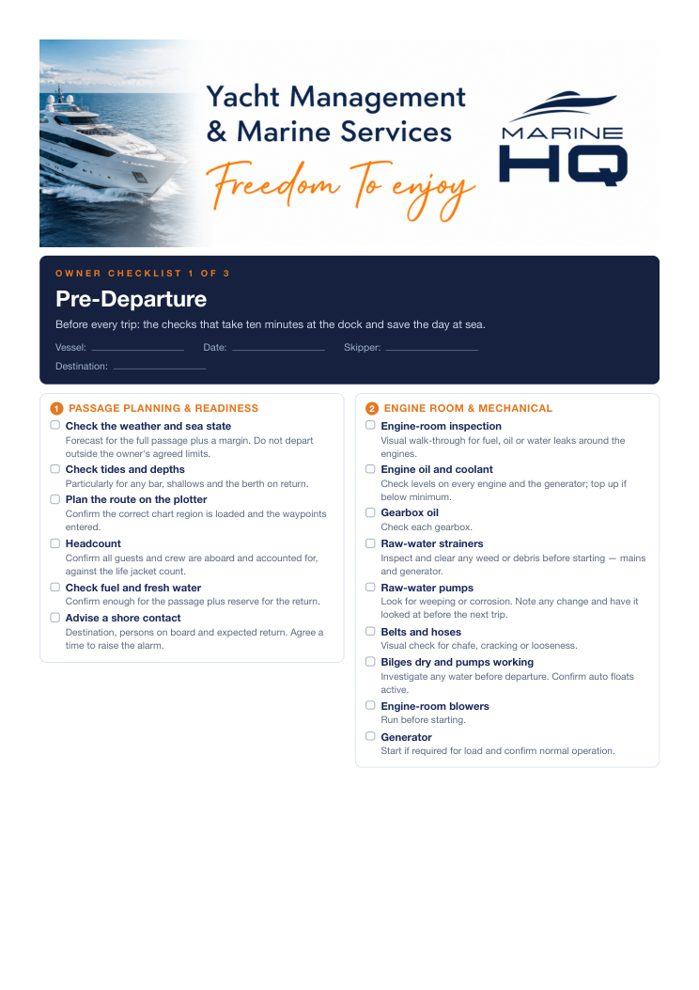
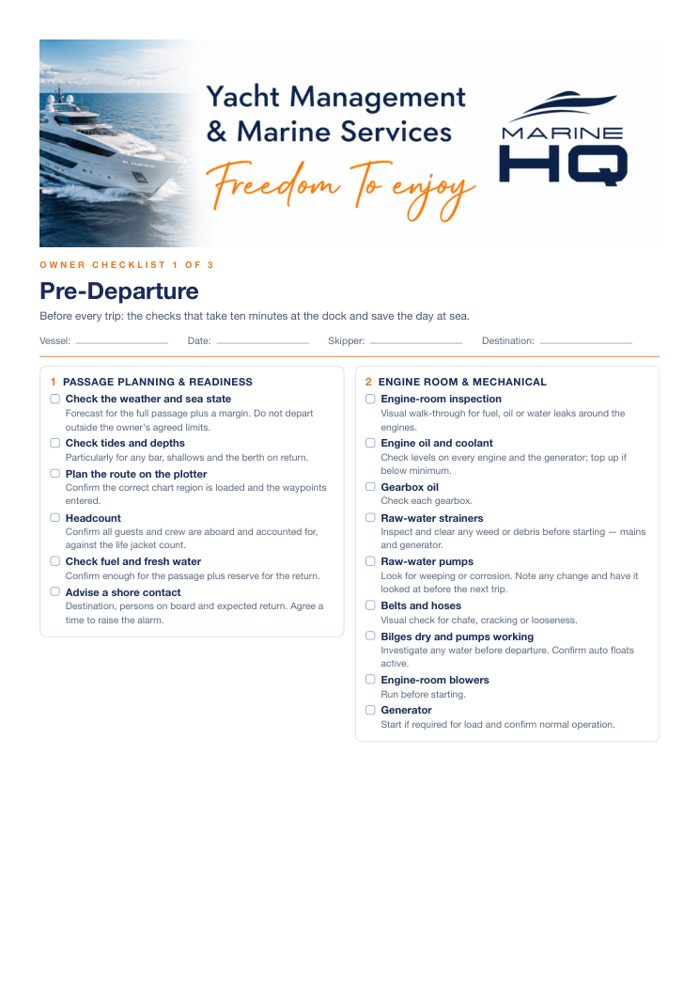
Quieter branding: no navy or orange blocks, colour as notes only
Light hero with a clean photo band, outlined buttons, pale table headers,
light end panels, white links page, lighter product thumbnails.

Changed region(s): [[0.03, 0.2424, 0.9614, 0.7879], [0.9013, 0.5152, 0.9313, 0.5758]]

diff --git a/links/index.html b/links/index.html
@@ -2,5 +2,5 @@
 <meta charset="utf-8"><meta name="viewport" content="width=device-width,initial-scale=1"><title>Marine HQ — links</title><meta name="description" content="Marine HQ: yacht management on the Gold Coast. Guides, the Yacht Owner&rsquo;s Kit, and how to reach us."><link rel="canonical" href="https://guides.marinehq.com.au/links/"><link rel="icon" href="/assets/white_favicon-64.png"><link href="https://fonts.googleapis.com/css2?family=Bodoni+Moda:opsz,wght@6..96,500&family=Inter:wght@400;600&family=Montserrat:wght@700&display=swap" rel="stylesheet"><link rel="stylesheet" href="/assets/style.css?v=20261004">
 <script async src="https://www.googletagmanager.com/gtag/js?id=G-657FQN68L7"></script>
 <script>window.dataLayer=window.dataLayer||[];function gtag(){dataLayer.push(arguments);}gtag('js',new Date());gtag('config','G-657FQN68L7');</script>
-</head><body class="lkpage"><main class="lkwrap"><img class="lklogo" src="/assets/logo_orange.png" alt="Marine HQ"><h1>Marine HQ</h1><p>Yacht management and maintenance. Gold Coast, Sydney, Whitsundays.</p><a class="lk" href="/"><b>Read the guides</b><span>Costs, marinas, maintenance, passages</span></a><a class="lk" href="/owners-kit/"><b>The Yacht Owner&rsquo;s Kit</b><span>Checklists and schedules from $7</span></a><a class="lk" href="/guides/cost-of-owning-a-yacht-gold-coast/"><b>What does it cost to own a yacht?</b><span>The Gold Coast numbers</span></a><a class="lk" href="/guides/do-you-need-full-time-crew/"><b>Do you need full-time crew?</b><span>Driving her yourself, day crew, captains</span></a><a class="lk" href="/guides/myyacht-owner-app-guide/"><b>MyYacht, the owner app</b><span>Screen by screen</span></a><a class="lk" href="https://www.marinehq.com.au/"><b>Marine HQ website</b><span>Yacht management and maintenance</span></a><a class="lk" href="https://wa.me/61439748387"><b>WhatsApp us</b><span>Usually within the hour</span></a><a class="lk" href="tel:+61439748387"><b>Call 0439 748 387</b></a><p class="lkfoot">Freedom to enjoy.</p></main>
+</head><body class="lkpage"><main class="lkwrap"><img class="lklogo" src="/assets/logo_navy.png" alt="Marine HQ"><h1>Marine HQ</h1><p>Yacht management and maintenance. Gold Coast, Sydney, Whitsundays.</p><a class="lk" href="/"><b>Read the guides</b><span>Costs, marinas, maintenance, passages</span></a><a class="lk" href="/owners-kit/"><b>The Yacht Owner&rsquo;s Kit</b><span>Checklists and schedules from $7</span></a><a class="lk" href="/guides/cost-of-owning-a-yacht-gold-coast/"><b>What does it cost to own a yacht?</b><span>The Gold Coast numbers</span></a><a class="lk" href="/guides/do-you-need-full-time-crew/"><b>Do you need full-time crew?</b><span>Driving her yourself, day crew, captains</span></a><a class="lk" href="/guides/myyacht-owner-app-guide/"><b>MyYacht, the owner app</b><span>Screen by screen</span></a><a class="lk" href="https://www.marinehq.com.au/"><b>Marine HQ website</b><span>Yacht management and maintenance</span></a><a class="lk" href="https://wa.me/61439748387"><b>WhatsApp us</b><span>Usually within the hour</span></a><a class="lk" href="tel:+61439748387"><b>Call 0439 748 387</b></a><p class="lkfoot">Freedom to enjoy.</p></main>
 </body></html>

diff --git a/assets/style.css b/assets/style.css
@@ -329,3 +329,39 @@ html,body{max-width:100%;overflow-x:clip}
 .lk b{display:block;font-weight:600;font-size:1.02rem}
 .lk span{display:block;font-size:.82rem;opacity:.75;margin-top:2px}
 .lkfoot{font-family:var(--serif);font-style:italic;color:#fb7414!important;margin-top:26px!important}
+
+/* ── Quieter branding (4 Oct 2026, Trish): no dark-blue blocks, no orange blocks. Navy and orange are
+      for type, hairlines and small notes only. The top bar stays navy to match marinehq.com.au. ── */
+.btn,.prod-act .btn,.cta.end .btn,.foot-cta .btn,.shop-done .btn,.side-cta .btn{background:#fff;color:var(--navy);border:1.5px solid var(--navy)}
+.btn:hover,.prod-act .btn:hover,.cta.end .btn:hover,.foot-cta .btn:hover,.shop-done .btn:hover,.side-cta .btn:hover{background:#fff;color:var(--orange);border-color:var(--orange)}
+.btn.ghost,.cta.end .btn.ghost,.foot-cta .btn.ghost,.shop-done .btn.ghost{background:transparent;color:var(--navy);border:1px solid var(--line-2)}
+.btn.ghost:hover,.cta.end .btn.ghost:hover,.foot-cta .btn.ghost:hover,.shop-done .btn.ghost:hover{color:var(--orange);border-color:var(--orange)}
+.hero.small{background:var(--wash);color:var(--navy);border-bottom:1px solid var(--line);padding:46px 0 34px}
+.hero.small h1{color:var(--navy)}
+.hero.small .stand{color:var(--ink-2)}
+.hero.small .crumbs{color:var(--mute);text-shadow:none}
+.hero.small .crumbs a{color:var(--navy)}
+.cta.end,.foot-cta,.shop-done{background:var(--wash);color:var(--ink);border:1px solid var(--line);border-top:2px solid var(--orange)}
+.cta.end h2,.foot-cta h2,.shop-done h2{color:var(--navy)}
+.cta.end p,.foot-cta p,.shop-done p{color:var(--ink-2)}
+.shopcard.is-kit{border-top-color:var(--navy);background:#fff}
+.prod{background:#fff}
+.lkpage{background:#fff;color:var(--ink)}
+.lkwrap h1{color:var(--navy)}
+.lkwrap h1:after{content:"";display:block;width:44px;height:2px;background:var(--orange);margin:14px auto 0}
+.lkwrap p{color:var(--ink-2)}
+.lk{background:#fff;color:var(--navy);border:1px solid var(--line-2);border-radius:6px}
+.lk:hover{background:#fff;color:var(--orange);border-color:var(--orange)}
+.lkfoot{color:var(--orange)!important}
+.body th{background:#eef2f8;color:var(--navy);border-bottom:2px solid var(--orange)}
+/* hero: light ground, navy type, the photo shown clean underneath (no navy wash over it) */
+.hero{background:var(--wash);color:var(--navy);padding:54px 0 0}
+.hero.home{padding:64px 0 0}
+.hero h1{color:var(--navy)}
+.hero .stand{color:var(--ink-2)}
+.hero .eyebrow,.hero .crumbs,.hero .meta{text-shadow:none}
+.hero .meta,.hero .crumbs{color:var(--mute)}
+.hero .crumbs a{color:var(--navy)}
+.hero:after{content:"";display:block;height:clamp(170px,30vw,400px);margin-top:34px;background:var(--photo) center/cover no-repeat}
+.hero.small{padding:46px 0 34px}
+.hero.small:after{display:none}

diff --git a/assets/whatsapp-widget.js b/assets/whatsapp-widget.js
@@ -7,9 +7,9 @@
   +'#mhqwa .b{width:60px;height:60px;border-radius:50%;background:#25D366;border:0;cursor:pointer;box-shadow:0 8px 24px rgba(0,0,0,.25);display:flex;align-items:center;justify-content:center;position:relative}'
   +'#mhqwa .b svg{width:32px;height:32px;fill:#fff}#mhqwa .b i{position:absolute;top:2px;right:2px;width:12px;height:12px;border-radius:50%;background:#e87722;border:2px solid #fff}'
   +'#mhqwa .p{position:absolute;right:0;bottom:74px;width:min(340px,calc(100vw - 36px));background:#fff;border-radius:14px;box-shadow:0 16px 48px rgba(22,34,63,.28);overflow:hidden;display:none}'
-  +'#mhqwa.open .p{display:block}#mhqwa .h{background:#16223f;color:#fff;padding:14px 16px;display:flex;align-items:center;gap:12px}'
-  +'#mhqwa .h b{display:block;font-size:15px}#mhqwa .h span{font-size:12px;color:#c9d3e6}#mhqwa .h .x{margin-left:auto;background:none;border:0;color:#fff;font-size:22px;cursor:pointer;line-height:1}'
-  +'#mhqwa .lg{width:36px;height:36px;border-radius:50%;background:#fff;display:flex;align-items:center;justify-content:center;color:#16223f;font-weight:800;font-size:11px;letter-spacing:.5px}'
+  +'#mhqwa.open .p{display:block}#mhqwa .h{background:#fff;color:#1a2b5c;border-bottom:2px solid #e87722;padding:14px 16px;display:flex;align-items:center;gap:12px}'
+  +'#mhqwa .h b{display:block;font-size:15px}#mhqwa .h span{font-size:12px;color:#5d6a82}#mhqwa .h .x{margin-left:auto;background:none;border:0;color:#1a2b5c;font-size:22px;cursor:pointer;line-height:1}'
+  +'#mhqwa .lg{width:36px;height:36px;border-radius:50%;background:#fff;border:1.5px solid #1a2b5c;display:flex;align-items:center;justify-content:center;color:#16223f;font-weight:800;font-size:11px;letter-spacing:.5px}'
   +'#mhqwa .m{background:#eef1f8;padding:16px}#mhqwa .g{background:#fff;border-radius:10px;padding:12px 14px;font-size:14px;color:#1f2740;line-height:1.5;max-width:88%;box-shadow:0 1px 2px rgba(0,0,0,.06)}'
   +'#mhqwa .f{padding:12px}#mhqwa textarea{width:100%;box-sizing:border-box;border:1px solid #cfd6e2;border-radius:10px;padding:10px 12px;font:inherit;font-size:14px;resize:none;height:64px}'
   +'#mhqwa .s{display:block;width:100%;margin-top:10px;background:#25D366;color:#fff;border:0;border-radius:10px;padding:13px;font-weight:700;font-size:15px;cursor:pointer}'

diff --git a/guides/detailing-and-ceramic-coating-gold-coast/index.html b/guides/detailing-and-ceramic-coating-gold-coast/index.html
@@ -29,7 +29,7 @@
 </header>
 <nav class="sub" aria-label="Guide sections"><div class="wrap sub-bar"><a class="sub-home" href="/">All guides</a><a href="/costs/">Costs</a><a href="/maintenance/">Maintenance</a><a href="/marinas/">Marinas</a><a href="/buying/">Buying & selling</a><a href="/cruising/">Cruising & passages</a><a href="/ownership/">Ownership</a><a class="sub-kit" href="/owners-kit/">Owner&rsquo;s Kit</a></div></nav>
 
-<section class="hero" style="background-image:linear-gradient(180deg,rgba(22,34,63,.50) 0%,rgba(22,34,63,.62) 40%,rgba(22,34,63,.94) 100%),url('/assets/photos/teak-deck.jpg')">
+<section class="hero" style="--photo:url('/assets/photos/teak-deck.jpg')">
   <div class="wrap">
     <div class="crumbs"><a href="/">Guides</a> <span>&rsaquo;</span> <a href="/maintenance/">Maintenance</a></div>
     <h1>Detailing and ceramic coating for a motor yacht on the Gold Coast: what it costs, how long it lasts, and what&#x27;s in the job</h1>

diff --git a/guides/sanctuary-cove-boat-show-guide/index.html b/guides/sanctuary-cove-boat-show-guide/index.html
@@ -29,7 +29,7 @@
 </header>
 <nav class="sub" aria-label="Guide sections"><div class="wrap sub-bar"><a class="sub-home" href="/">All guides</a><a href="/costs/">Costs</a><a href="/maintenance/">Maintenance</a><a href="/marinas/">Marinas</a><a href="/buying/">Buying & selling</a><a href="/cruising/">Cruising & passages</a><a href="/ownership/">Ownership</a><a class="sub-kit" href="/owners-kit/">Owner&rsquo;s Kit</a></div></nav>
 
-<section class="hero" style="background-image:linear-gradient(180deg,rgba(22,34,63,.50) 0%,rgba(22,34,63,.62) 40%,rgba(22,34,63,.94) 100%),url('/assets/photos/bow-marina.jpg')">
+<section class="hero" style="--photo:url('/assets/photos/bow-marina.jpg')">
   <div class="wrap">
     <div class="crumbs"><a href="/">Guides</a> <span>&rsaquo;</span> <a href="/buying/">Buying &amp; selling</a></div>
     <h1>Sanctuary Cove International Boat Show 2027: dates, what&#x27;s there, and how to get the most out of it</h1>

diff --git a/guides/do-you-need-full-time-crew/index.html b/guides/do-you-need-full-time-crew/index.html
@@ -29,7 +29,7 @@
 </header>
 <nav class="sub" aria-label="Guide sections"><div class="wrap sub-bar"><a class="sub-home" href="/">All guides</a><a href="/costs/">Costs</a><a href="/maintenance/">Maintenance</a><a href="/marinas/">Marinas</a><a href="/buying/">Buying & selling</a><a href="/cruising/">Cruising & passages</a><a href="/ownership/">Ownership</a><a class="sub-kit" href="/owners-kit/">Owner&rsquo;s Kit</a></div></nav>
 
-<section class="hero" style="background-image:linear-gradient(180deg,rgba(22,34,63,.50) 0%,rgba(22,34,63,.62) 40%,rgba(22,34,63,.94) 100%),url('/assets/photos/bow-marina.jpg')">
+<section class="hero" style="--photo:url('/assets/photos/bow-marina.jpg')">
   <div class="wrap">
     <div class="crumbs"><a href="/">Guides</a> <span>&rsaquo;</span> <a href="/ownership/">Ownership</a></div>
     <h1>Do you need full-time crew? Driving her yourself, day crew, captains, and what happens when your captain leaves</h1>

diff --git a/guides/yacht-sops-standard-operating-procedures/index.html b/guides/yacht-sops-standard-operating-procedures/index.html
@@ -29,7 +29,7 @@
 </header>
 <nav class="sub" aria-label="Guide sections"><div class="wrap sub-bar"><a class="sub-home" href="/">All guides</a><a href="/costs/">Costs</a><a href="/maintenance/">Maintenance</a><a href="/marinas/">Marinas</a><a href="/buying/">Buying & selling</a><a href="/cruising/">Cruising & passages</a><a href="/ownership/">Ownership</a><a class="sub-kit" href="/owners-kit/">Owner&rsquo;s Kit</a></div></nav>
 
-<section class="hero" style="background-image:linear-gradient(180deg,rgba(22,34,63,.50) 0%,rgba(22,34,63,.62) 40%,rgba(22,34,63,.94) 100%),url('/assets/photos/at-anchor.jpg')">
+<section class="hero" style="--photo:url('/assets/photos/at-anchor.jpg')">
   <div class="wrap">
     <div class="crumbs"><a href="/">Guides</a> <span>&rsaquo;</span> <a href="/ownership/">Ownership</a></div>
     <h1>Yacht SOPs: what standard operating procedures are, why they pay for themselves, and what a good set includes</h1>

diff --git a/guides/annual-haul-out-checklist/index.html b/guides/annual-haul-out-checklist/index.html
@@ -29,7 +29,7 @@
 </header>
 <nav class="sub" aria-label="Guide sections"><div class="wrap sub-bar"><a class="sub-home" href="/">All guides</a><a href="/costs/">Costs</a><a href="/maintenance/">Maintenance</a><a href="/marinas/">Marinas</a><a href="/buying/">Buying & selling</a><a href="/cruising/">Cruising & passages</a><a href="/ownership/">Ownership</a><a class="sub-kit" href="/owners-kit/">Owner&rsquo;s Kit</a></div></nav>
 
-<section class="hero" style="background-image:linear-gradient(180deg,rgba(22,34,63,.50) 0%,rgba(22,34,63,.62) 40%,rgba(22,34,63,.94) 100%),url('/assets/photos/travel-lift.jpg')">
+<section class="hero" style="--photo:url('/assets/photos/travel-lift.jpg')">
   <div class="wrap">
     <div class="crumbs"><a href="/">Guides</a> <span>&rsaquo;</span> <a href="/maintenance/">Maintenance</a></div>
     <h1>The annual haul-out: a checklist for what should happen while your yacht is out of the water</h1>

diff --git a/guides/antifouling-gold-coast-cost/index.html b/guides/antifouling-gold-coast-cost/index.html
@@ -29,7 +29,7 @@
 </header>
 <nav class="sub" aria-label="Guide sections"><div class="wrap sub-bar"><a class="sub-home" href="/">All guides</a><a href="/costs/">Costs</a><a href="/maintenance/">Maintenance</a><a href="/marinas/">Marinas</a><a href="/buying/">Buying & selling</a><a href="/cruising/">Cruising & passages</a><a href="/ownership/">Ownership</a><a class="sub-kit" href="/owners-kit/">Owner&rsquo;s Kit</a></div></nav>
 
-<section class="hero" style="background-image:linear-gradient(180deg,rgba(22,34,63,.50) 0%,rgba(22,34,63,.62) 40%,rgba(22,34,63,.94) 100%),url('/assets/photos/travel-lift.jpg')">
+<section class="hero" style="--photo:url('/assets/photos/travel-lift.jpg')">
   <div class="wrap">
     <div class="crumbs"><a href="/">Guides</a> <span>&rsaquo;</span> <a href="/maintenance/">Maintenance</a></div>
     <h1>Antifouling on the Gold Coast: what it costs and what&#x27;s actually in the job</h1>

diff --git a/guides/what-size-boat-should-i-get/index.html b/guides/what-size-boat-should-i-get/index.html
@@ -29,7 +29,7 @@
 </header>
 <nav class="sub" aria-label="Guide sections"><div class="wrap sub-bar"><a class="sub-home" href="/">All guides</a><a href="/costs/">Costs</a><a href="/maintenance/">Maintenance</a><a href="/marinas/">Marinas</a><a href="/buying/">Buying & selling</a><a href="/cruising/">Cruising & passages</a><a href="/ownership/">Ownership</a><a class="sub-kit" href="/owners-kit/">Owner&rsquo;s Kit</a></div></nav>
 
-<section class="hero" style="background-image:linear-gradient(180deg,rgba(22,34,63,.50) 0%,rgba(22,34,63,.62) 40%,rgba(22,34,63,.94) 100%),url('/assets/photos/bow-marina.jpg')">
+<section class="hero" style="--photo:url('/assets/photos/bow-marina.jpg')">
   <div class="wrap">
     <div class="crumbs"><a href="/">Guides</a> <span>&rsaquo;</span> <a href="/buying/">Buying &amp; selling</a></div>
     <h1>What size boat should I get? Choosing a motor yacht for the Gold Coast</h1>

diff --git a/guides/gold-coast-marinas-compared/index.html b/guides/gold-coast-marinas-compared/index.html
@@ -29,7 +29,7 @@
 </header>
 <nav class="sub" aria-label="Guide sections"><div class="wrap sub-bar"><a class="sub-home" href="/">All guides</a><a href="/costs/">Costs</a><a href="/maintenance/">Maintenance</a><a href="/marinas/">Marinas</a><a href="/buying/">Buying & selling</a><a href="/cruising/">Cruising & passages</a><a href="/ownership/">Ownership</a><a class="sub-kit" href="/owners-kit/">Owner&rsquo;s Kit</a></div></nav>
 
-<section class="hero" style="background-image:linear-gradient(180deg,rgba(22,34,63,.50) 0%,rgba(22,34,63,.62) 40%,rgba(22,34,63,.94) 100%),url('/assets/photos/bow-marina.jpg')">
+<section class="hero" style="--photo:url('/assets/photos/bow-marina.jpg')">
   <div class="wrap">
     <div class="crumbs"><a href="/">Guides</a> <span>&rsaquo;</span> <a href="/marinas/">Marinas</a></div>
     <h1>Gold Coast marinas compared: where to keep a 40–120 ft motor yacht</h1>

diff --git a/guides/gold-coast-to-sydney-by-motor-yacht/index.html b/guides/gold-coast-to-sydney-by-motor-yacht/index.html
@@ -29,7 +29,7 @@
 </header>
 <nav class="sub" aria-label="Guide sections"><div class="wrap sub-bar"><a class="sub-home" href="/">All guides</a><a href="/costs/">Costs</a><a href="/maintenance/">Maintenance</a><a href="/marinas/">Marinas</a><a href="/buying/">Buying & selling</a><a href="/cruising/">Cruising & passages</a><a href="/ownership/">Ownership</a><a class="sub-kit" href="/owners-kit/">Owner&rsquo;s Kit</a></div></nav>
 
-<section class="hero" style="background-image:linear-gradient(180deg,rgba(22,34,63,.50) 0%,rgba(22,34,63,.62) 40%,rgba(22,34,63,.94) 100%),url('/assets/photos/at-anchor.jpg')">
+<section class="hero" style="--photo:url('/assets/photos/at-anchor.jpg')">
   <div class="wrap">
     <div class="crumbs"><a href="/">Guides</a> <span>&rsaquo;</span> <a href="/cruising/">Cruising &amp; passages</a></div>
     <h1>Taking your motor yacht from the Gold Coast to Sydney</h1>
